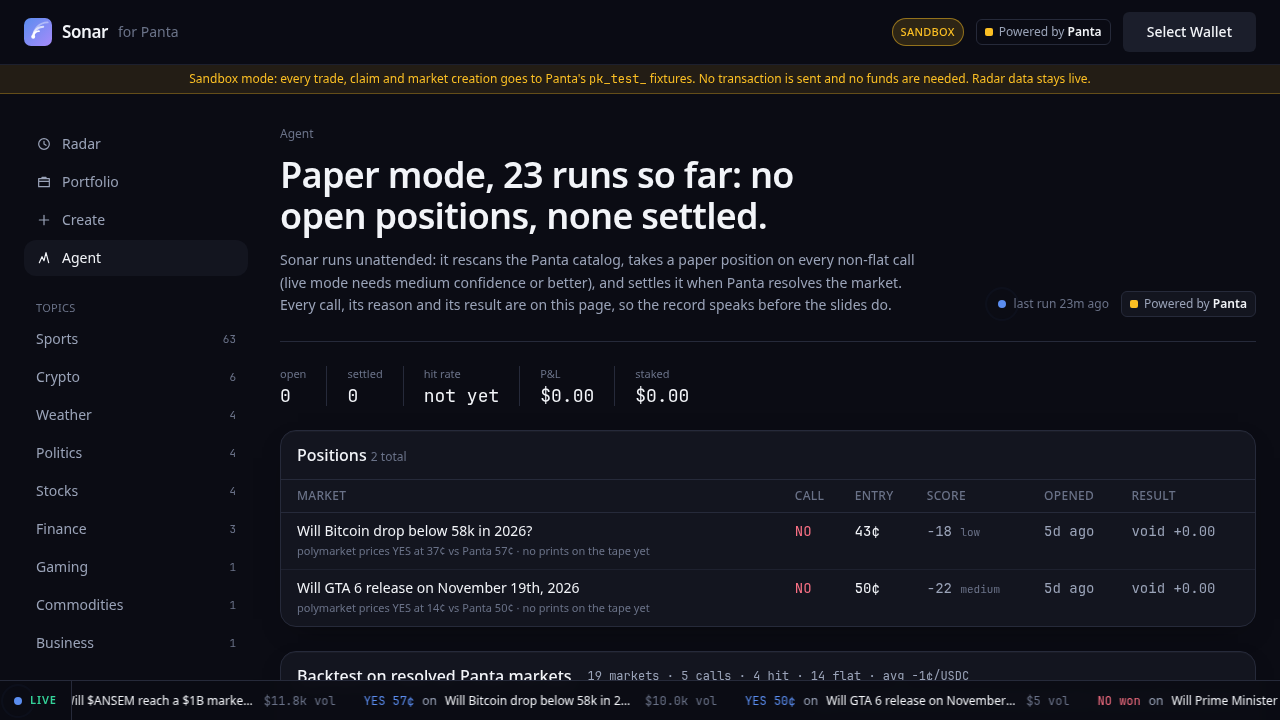
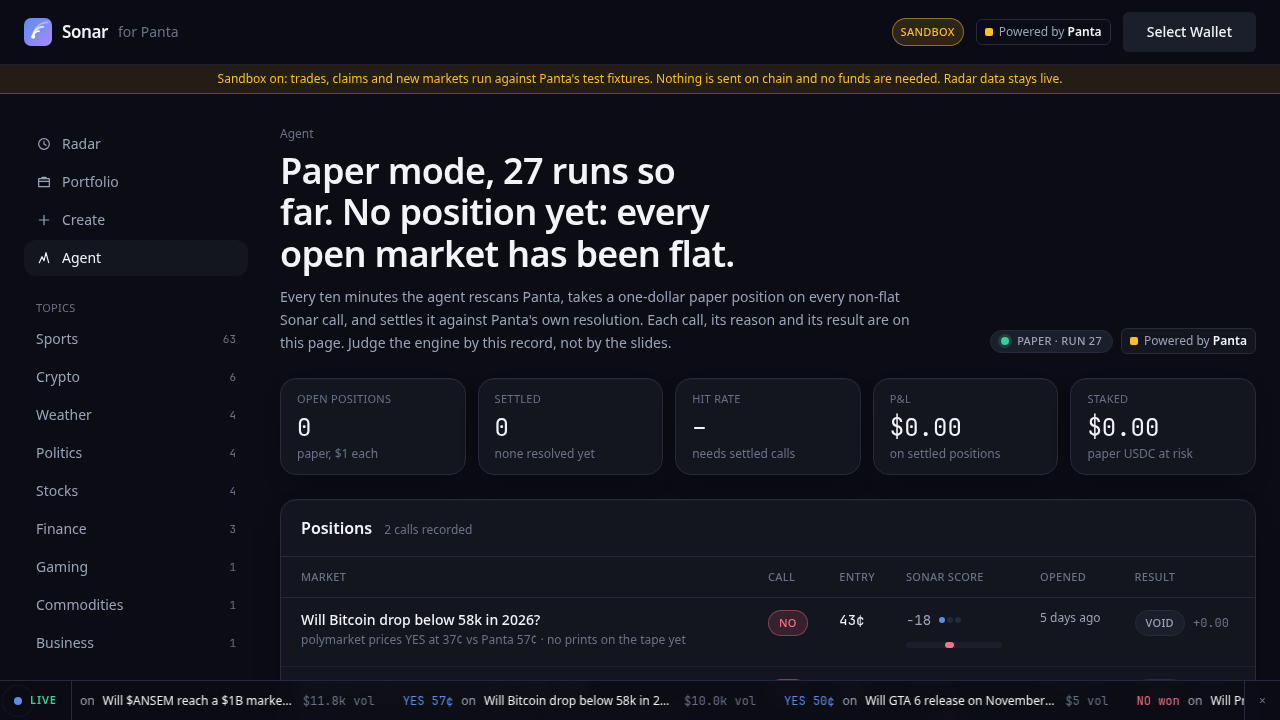
Drop update timestamps; rewrite copy across the market, trade, create and sandbox surfaces
No "updated N minutes ago" anywhere on the site. Headings and messages
rewritten in plain words ("Across venues", "How it resolves", "Trade
tape", "Get a quote", "Buying has closed here"), every section on the
market, create and portfolio pages moved to the card style, sandbox
banner shortened. Screenshots regenerated.

diff --git a/src/components/MarketView.tsx b/src/components/MarketView.tsx
@@ -65,7 +65,7 @@ export function MarketView({ id }: { id: string }) {
             </div>
           </section>
 
-          <section className="panel p-4">
+          <section className="card p-5">
             <div className="flex flex-wrap items-center gap-3">
               <h2 className="font-medium">Sonar read</h2>
               <SideChip side={s.side} score={s.score} />
@@ -93,8 +93,8 @@ export function MarketView({ id }: { id: string }) {
             </dl>
           </section>
 
-          <section className="panel p-4">
-            <h2 className="font-medium">Same question elsewhere</h2>
+          <section className="card p-5">
+            <h2 className="font-medium">Across venues</h2>
             {venue ? (
               <div className="mt-2 flex flex-wrap items-center gap-4 text-sm">
                 <a href={venue.url} target="_blank" rel="noopener noreferrer" className="max-w-lg truncate">{venue.question}</a>
@@ -102,19 +102,19 @@ export function MarketView({ id }: { id: string }) {
                 {s.crossVenueGap !== null && <span className={`mono ${Math.abs(s.crossVenueGap) >= 0.05 ? (s.crossVenueGap > 0 ? 'text-yes' : 'text-no') : 'text-fog'}`}>gap {s.crossVenueGap > 0 ? '+' : ''}{Math.round(s.crossVenueGap * 100)}pts</span>}
                 <span className="text-xs text-fog-2">match {venue.similarity.toFixed(2)}{venue.volume24h ? ` · ${usd(venue.volume24h, 0)} 24h` : ''}</span>
               </div>
-            ) : <p className="mt-2 text-sm text-fog">No close match on Polymarket or Kalshi. This question is Panta-only.</p>}
+            ) : <p className="mt-2 text-sm text-fog">Not listed on Polymarket or Kalshi. This question trades only on Panta.</p>}
           </section>
 
-          <section className="panel p-4">
-            <h2 className="font-medium">Resolution</h2>
-            <p className="mt-2 text-sm text-fog">{rule || 'No rule text returned by the API.'}</p>
+          <section className="card p-5">
+            <h2 className="font-medium">How it resolves</h2>
+            <p className="mt-2 text-sm text-fog">{rule || 'Panta returned no resolution rule for this market.'}</p>
             {(d.sources?.length || oc?.sources?.length) ? <p className="mono mt-2 text-xs text-fog-2">sources: {(d.sources ?? oc?.sources ?? []).join(', ')}</p> : null}
             {d.oracle && <p className="mono text-xs text-fog-2">oracle: {d.oracle}</p>}
           </section>
 
-          <section className="panel overflow-hidden">
-            <h2 className="border-b border-line px-4 py-3 font-medium">Tape <span className="text-xs font-normal text-fog-2">last {tape.length} prints</span></h2>
-            {tape.length === 0 ? <p className="p-4 text-sm text-fog">No prints yet.</p> : (
+          <section className="card overflow-hidden">
+            <h2 className="border-b border-line px-5 py-4 font-medium">Trade tape <span className="text-xs font-normal text-fog-2">last {tape.length} prints</span></h2>
+            {tape.length === 0 ? <p className="p-5 text-sm text-fog">No trades yet. The first print shows here the moment it lands.</p> : (
               <div className="max-h-96 overflow-auto">
                 <table className="w-full text-xs">
                   <thead className="sticky top-0 bg-ink-2 text-left uppercase tracking-wide text-fog-2"><tr><th className="px-4 py-2 font-medium">Side</th><th className="px-2 py-2 font-medium">Shares</th><th className="px-2 py-2 font-medium">Wallet</th><th className="px-2 py-2 font-medium">When</th><th className="px-2 py-2 font-medium">Tx</th></tr></thead>

diff --git a/src/components/TradePanel.tsx b/src/components/TradePanel.tsx
@@ -71,17 +71,17 @@ export function TradePanel({ market, yesPrice, tradable, lean, onDone }: { marke
   }
 
   return (
-    <section className="panel p-4" aria-labelledby="trade-h">
+    <section className="card p-5" aria-labelledby="trade-h">
       <div className="flex items-center justify-between">
         <h2 id="trade-h" className="font-medium">Trade</h2>
-        <span className={`text-[11px] uppercase tracking-wide ${sandbox ? 'text-amber' : 'text-fog-2'}`}>{sandbox ? 'sandbox · panta fixtures · no funds' : 'non-custodial · mainnet USDC'}</span>
+        <span className={`text-[11px] uppercase tracking-wide ${sandbox ? 'text-amber' : 'text-fog-2'}`}>{sandbox ? 'sandbox · no funds needed' : 'non-custodial · mainnet USDC'}</span>
       </div>
 
       {!tradable && !sandbox ? (
         <p className="mt-3 text-sm text-fog">
-          {market.phase === 'resolved' ? 'This market has resolved. Winning shares are claimed from the Portfolio page.' :
-           market.onChain?.isGraduated ? 'Primary window closed: this market graduated to secondary trading, which the public API does not expose yet.' :
-           'Not accepting primary buys right now.'}
+          {market.phase === 'resolved' ? 'This market has resolved. Claim winning shares from Portfolio.' :
+           market.onChain?.isGraduated ? 'Buying has closed here. The market moved to Panta\'s secondary phase, which the public API does not expose yet.' :
+           'Not taking buys right now.'}
         </p>
       ) : (
         <form className="mt-3 space-y-3" onSubmit={(e) => { e.preventDefault(); if (step === 'quoted') execute(); else getQuote(); }}>
@@ -115,9 +115,9 @@ export function TradePanel({ market, yesPrice, tradable, lean, onDone }: { marke
           )}
 
           {!wallet ? <WalletButton /> : (<>
-            {!publicKey && sandbox && <p className="text-xs text-amber">No wallet connected: using a read-only demo address in the sandbox.</p>}
+            {!publicKey && sandbox && <p className="text-xs text-amber">No wallet connected. The sandbox uses a read-only demo address.</p>}
             <button type="submit" disabled={busy} className={`btn w-full ${step === 'quoted' ? 'btn-primary' : ''}`}>
-              {step === 'idle' || step === 'error' ? 'Get quote' : step === 'quoting' ? 'Quoting…' : step === 'quoted' ? `Sign & buy ${side.toUpperCase()}` :
+              {step === 'idle' || step === 'error' ? 'Get a quote' : step === 'quoting' ? 'Quoting…' : step === 'quoted' ? `Sign & buy ${side.toUpperCase()}` :
                step === 'building' ? 'Building transaction…' : step === 'signing' ? 'Approve in wallet…' : step === 'broadcasting' ? 'Broadcasting…' : step === 'submitting' ? 'Confirming with Panta…' : 'Done'}
             </button>
           </>)}

diff --git a/src/components/PortfolioView.tsx b/src/components/PortfolioView.tsx
@@ -47,15 +47,15 @@ export function PortfolioView() {
       <Masthead kicker="Portfolio" title="Your Panta positions, marked to the live YES and NO price." note="Claim winnings from here. A claim is a transaction like any other: Panta builds it, your wallet signs it." aside={<PoweredByPanta />} />
 
       {!wallet ? (
-        <div className="panel flex flex-col items-center gap-3 p-10 text-center text-sm text-fog">
+        <div className="card flex flex-col items-center gap-3 p-10 text-center text-sm text-fog">
           <p>Connect a wallet to see its positions.</p><WalletButton />
         </div>
       ) : loading && !data ? (
         <div className="space-y-3" aria-busy="true">{[0, 1, 2].map((i) => <div key={i} className="skeleton h-14" />)}</div>
       ) : error && !data ? (
-        <div className="panel p-8 text-center text-sm"><p className="text-no">{error}</p><button className="btn mt-4" onClick={reload}>Retry</button></div>
+        <div className="card p-8 text-center text-sm"><p className="text-no">{error}</p><button className="btn mt-4" onClick={reload}>Retry</button></div>
       ) : data && data.positions.length === 0 ? (
-        <div className="panel p-10 text-center text-sm text-fog">
+        <div className="card p-10 text-center text-sm text-fog">
           No positions for <span className="mono text-paper">{wallet.slice(0, 4)}…{wallet.slice(-4)}</span>{sandbox ? ' in the sandbox (Panta fixtures return none)' : ''}. <Link href="/">Find a market on the Radar.</Link>
         </div>
       ) : data && (
@@ -66,7 +66,7 @@ export function PortfolioView() {
             { k: 'open', v: data.positions.filter((r) => !r.outcome).length },
             { k: 'claimable', v: data.positions.filter((r) => r.claimable && !r.claimed).length, tone: data.positions.some((r) => r.claimable && !r.claimed) ? 'ping' : undefined },
           ]} />
-          <section className="panel overflow-x-auto">
+          <section className="card overflow-x-auto">
             <table className="w-full text-sm">
               <thead className="text-left text-xs uppercase tracking-wide text-fog-2"><tr className="border-b border-line">
                 <th className="px-3 py-2 font-medium">Market</th><th className="px-3 py-2 font-medium">Side</th><th className="px-3 py-2 font-medium">Shares</th><th className="px-3 py-2 font-medium">Price</th><th className="px-3 py-2 font-medium">Value</th><th className="px-3 py-2 font-medium">Status</th><th className="px-3 py-2" />

diff --git a/src/components/CreateFlow.tsx b/src/components/CreateFlow.tsx
@@ -102,7 +102,7 @@ export function CreateFlow() {
     <div className="space-y-6">
       <Masthead kicker="Create" title="Turn a headline into a market Panta can resolve." note="Paste a headline, a question or a URL. Sonar drafts a YES/NO market with a rule that can actually be settled; you edit it, Panta quotes the fee, your wallet signs. Creators earn a share of every trade their market attracts." aside={<PoweredByPanta />} />
 
-      <section className="panel p-4">
+      <section className="card p-4">
         <label htmlFor="in" className="label">Headline, question or URL</label>
         <div className="flex flex-col gap-2 sm:flex-row">
           <input id="in" className="field" value={input} onChange={(e) => setInput(e.target.value)} placeholder="e.g. Will BTC close above $120k on 1 October?" />
@@ -125,8 +125,8 @@ export function CreateFlow() {
       </section>
 
       {draft && (
-        <section className="panel space-y-3 p-4">
-          <div className="flex items-center justify-between"><h2 className="font-medium">Draft</h2><span className="text-xs text-fog-2">via {draft.via}</span></div>
+        <section className="card space-y-3 p-4">
+          <div className="flex items-center justify-between"><h2 className="font-medium">Your draft</h2><span className="text-xs text-fog-2">via {draft.via}</span></div>
           {draft.rationale && <p className="text-xs text-fog">{draft.rationale}</p>}
           <Field label="Question" id="q"><input id="q" className="field" value={draft.question} onChange={(e) => upd('question', e.target.value)} maxLength={500} /></Field>
           <Field label="Title" id="t"><input id="t" className="field" value={draft.title} onChange={(e) => upd('title', e.target.value)} maxLength={80} /></Field>

diff --git a/src/components/SandboxToggle.tsx b/src/components/SandboxToggle.tsx
@@ -4,7 +4,7 @@ import { useSandbox } from './useSandbox';
 export function SandboxToggle() {
   const [on, set] = useSandbox();
   return (
-    <button type="button" role="switch" aria-checked={on} onClick={() => set(!on)} title={on ? 'Sandbox: Panta fixtures, nothing on chain. Click for mainnet.' : 'Mainnet. Click for a free sandbox demo.'}
+    <button type="button" role="switch" aria-checked={on} onClick={() => set(!on)} title={on ? 'Sandbox: nothing on chain. Click to switch to mainnet.' : 'Mainnet. Click to try everything free in the sandbox.'}
       className={`chip h-7 border px-2 ${on ? 'border-amber/50 bg-amber/15 text-amber' : 'border-line text-fog-2 hover:text-paper'}`}>
       {on ? 'Sandbox' : 'Mainnet'}
     </button>
@@ -17,7 +17,7 @@ export function SandboxBanner() {
   if (!on) return null;
   return (
     <div role="status" className="border-b border-amber/30 bg-amber/10 px-4 py-1.5 text-center text-xs text-amber">
-      Sandbox mode: every trade, claim and market creation goes to Panta&apos;s <span className="mono">pk_test_</span> fixtures. No transaction is sent and no funds are needed. Radar data stays live.
+      Sandbox on: trades, claims and new markets run against Panta&apos;s test fixtures. Nothing is sent on chain and no funds are needed. Radar data stays live.
     </div>
   );
 }

diff --git a/src/app/(app)/page.tsx b/src/app/(app)/page.tsx
@@ -46,7 +46,7 @@ export default async function RadarPage({ searchParams }: { searchParams?: { top
       {/* status line */}
       <div className="flex flex-wrap items-center gap-x-2 gap-y-1 text-xs text-fog-2">
         <span className="dot-live" aria-hidden />
-        {radar ? <span>Live from Panta · updated {agoWords(now - radar.updatedAt)} ago · {radar.scanned} markets scanned</span> : <span>Waiting for the first scan</span>}
+        {radar ? <span>Live from Panta · {radar.scanned} markets scanned</span> : <span>Waiting for the first scan</span>}
         {/* one or two failed calls a scan is Panta's normal weather and is retried next tick; only say so when it is material */}
         {last && (last.errors >= 5 || (radar && now - radar.updatedAt > 1800 && last.errors > 0)) ? <span className="text-amber">· {last.errors} API {plural(last.errors, 'call', 'calls')} failed on the last scan</span> : null}
       </div>

diff --git a/src/components/AgentView.tsx b/src/components/AgentView.tsx
@@ -45,7 +45,7 @@ export function AgentView({ state, summary, backtest }: { state: AgentState | nu
         <div className="flex flex-wrap items-center gap-2 lg:col-span-4 lg:justify-end">
           {state && (
             <span className="pill">
-              <span className="dot-live mr-2" aria-hidden />{state.mode} · run {state.runs} · {agoWords(now - state.lastRunAt)} ago
+              <span className="dot-live mr-2" aria-hidden />{state.mode} · run {state.runs}
             </span>
           )}
           <PoweredByPanta />

diff --git a/docs/WEEKLY-UPDATES.md b/docs/WEEKLY-UPDATES.md
@@ -47,7 +47,7 @@ Panta's test fixtures, so the whole flow can be demoed with an empty wallet."
 > amber and reads **Sandbox**, and an amber banner appears under the header
 > saying nothing is sent on chain. Stay on the GTA 6 page.
 > **Click 7.** Scroll to the trade panel, which is now unlocked with no wallet.
-> Leave YES selected and the default amount. Click **Get quote**. Shares and
+> Leave YES selected and the default amount. Click **Get a quote**. Shares and
 > expiry appear.
 > **Click 8.** Click **Sign & buy YES**. The sandbox signature Panta returned
 > appears, then the line "Trade reported to Panta (attributed to Sonar)". Say: "Same code path on mainnet; there the
